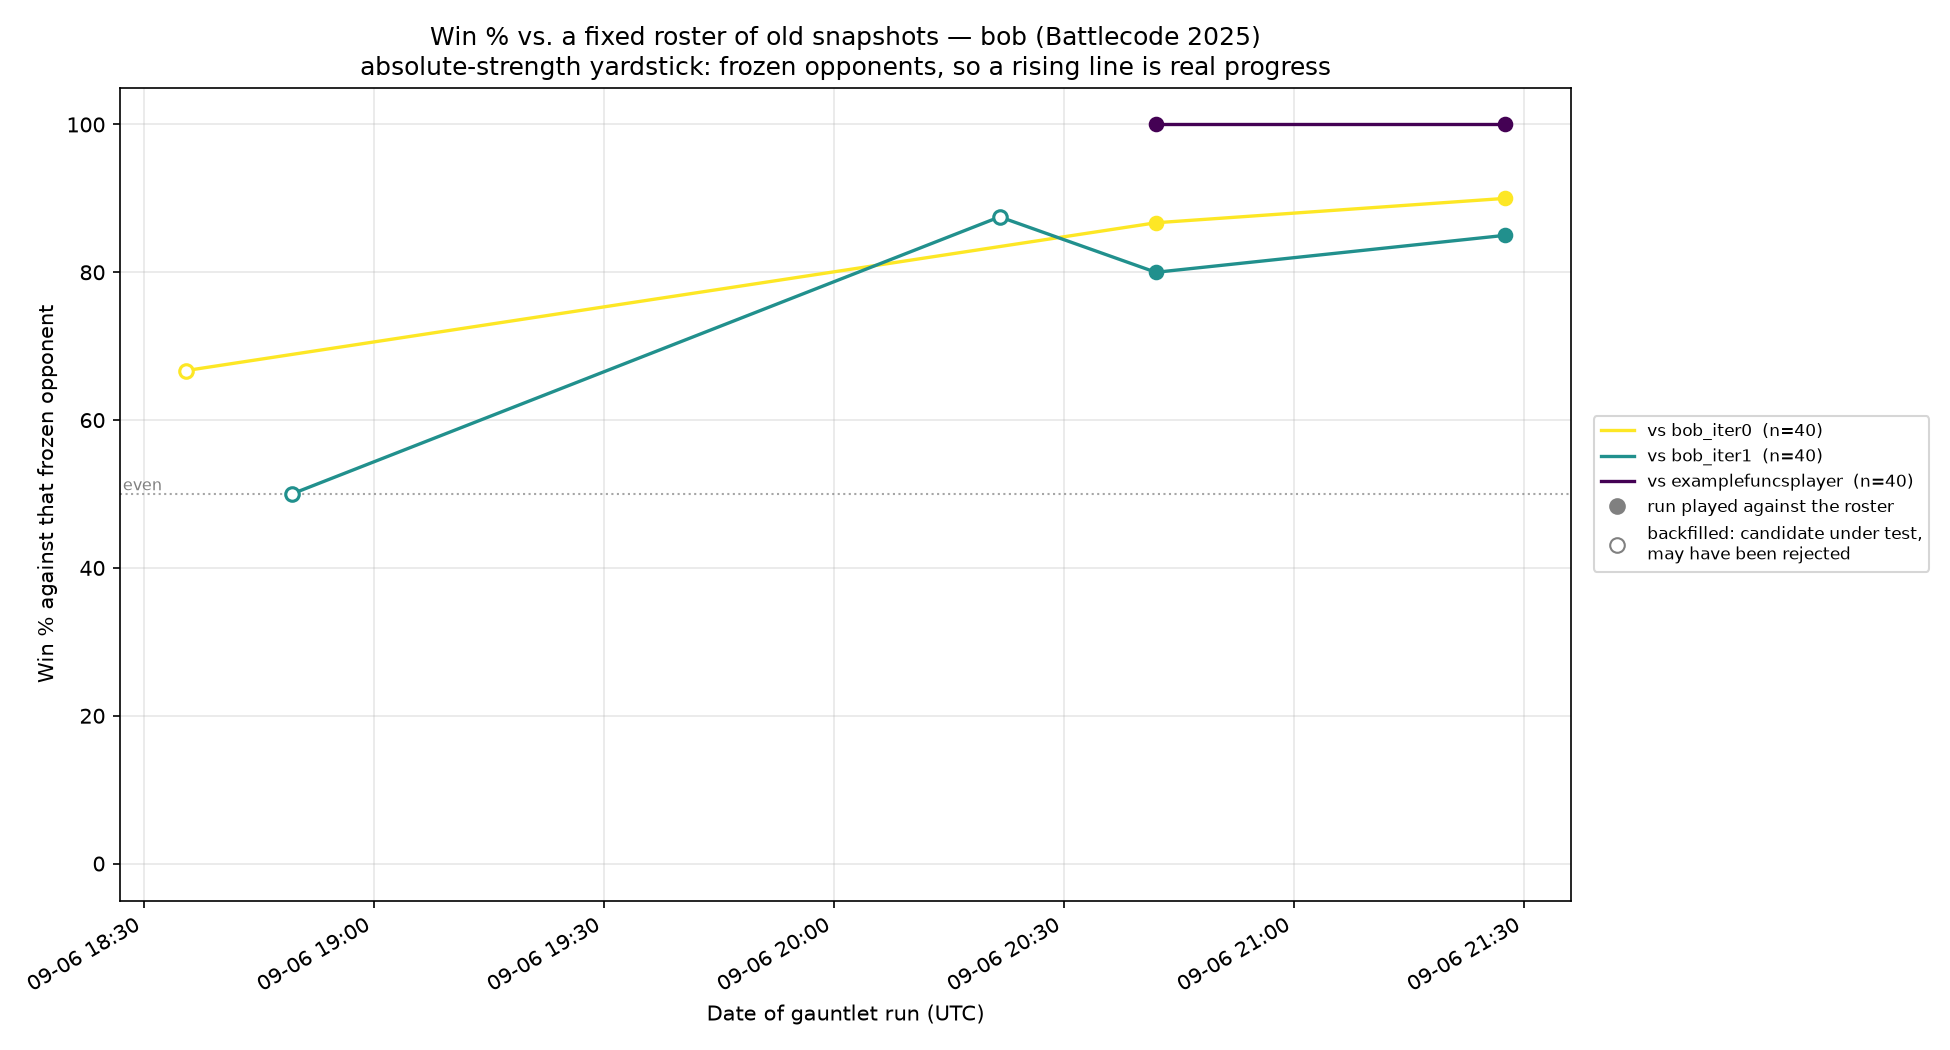
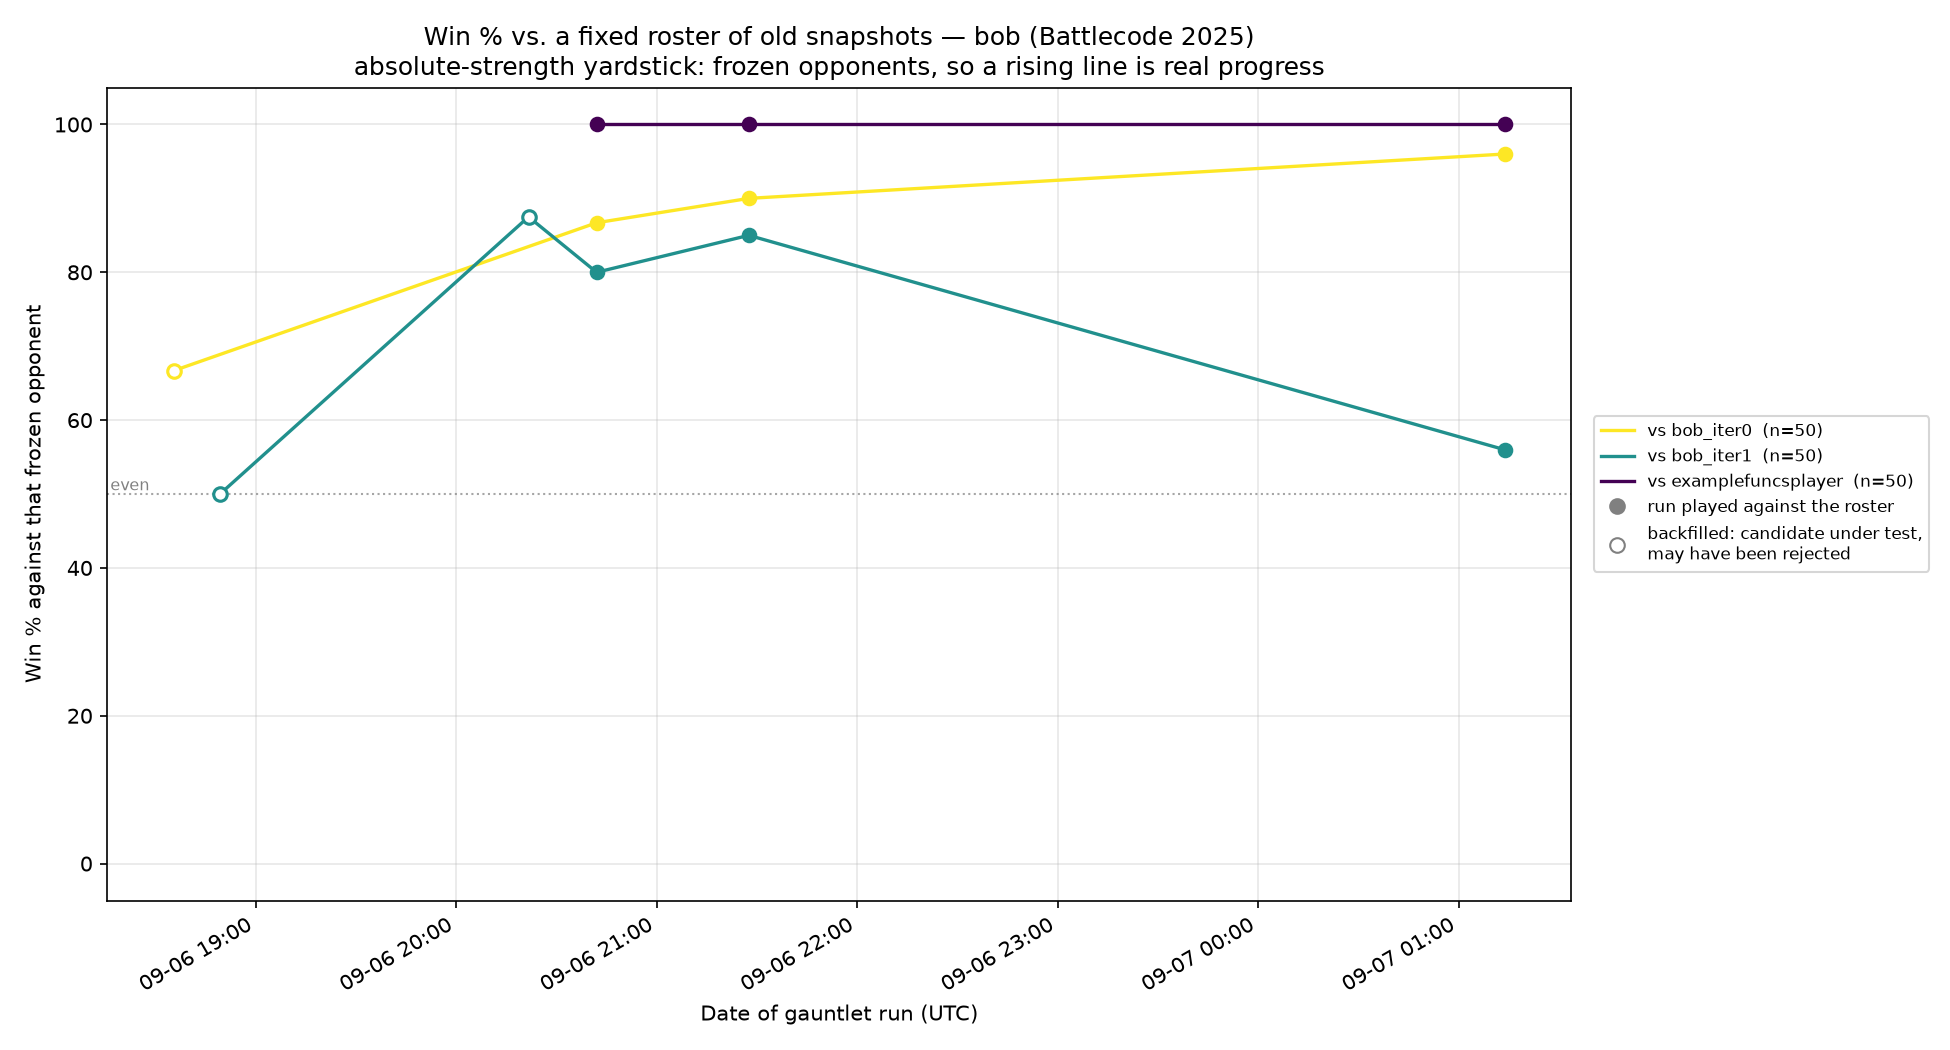
bob: fixed roster says win% vs frozen bob_iter1 fell 85% -> 56%
Roster run at iteration 9 (label bob_iter9, not +cand): 96% vs iter0, 100%
vs examplefuncsplayer, and 56% vs bob_iter1 -- down 29 points from the 85%
measured at iteration 3. Swept maps, which are immune to spawn advantage,
agree: 9-6 with 10 split by side, against 23-0 vs iter0.

This is what the never-retired roster exists to catch. Every accept in this
lineage beat its immediate predecessor and the lineage still went backwards
against an older frozen bot -- a chain of locally-winning steps is not a
globally improving path.

Not yet treated as proven: map samples are redrawn per run and AGENT.md warns
cross-run deltas are noisy. The decisive pinned experiment is queued -- replay
bob_iter3 vs bob_iter1 on THIS run maps.txt, since iter9 half is already
measured on exactly those maps. Recorded before iteration 11 reports so that
result cannot bend this interpretation.

Claude-Session: https://claude.ai/code/session_01AaaGzxRUmH5UDEVerTki8y

diff --git a/agents/bob/TRAINING_LOG.md b/agents/bob/TRAINING_LOG.md
@@ -2903,3 +2903,67 @@ says the leak is not fatal — but it names the two follow-ons precisely:
 
 Both are recorded now, before the gauntlet reports, so that whichever way iteration 11
 lands the next step is chosen from the trace rather than from the number.
+
+
+---
+
+## Fixed-roster run 20260907-011346 (bob_iter9) — the absolute instrument says something is wrong
+
+Run at the accept of iteration 9, 25 maps x 2 sides x 3 roster opponents = 150 games.
+`bot.txt` label is **`bob_iter9`** with no `+cand` suffix, so this measures the accepted
+snapshot, not a candidate.
+
+```
+                     bob_iter3 (20260906-212734)      bob_iter9 (20260907-011346)
+vs bob_iter0            36/40   90.0%                    48/50   96.0%
+vs bob_iter1            34/40   85.0%                    28/50   56.0%      <-- 
+vs examplefuncsplayer   40/40  100.0%                    50/50  100.0%
+overall                                                 126/150  84.0%
+```
+
+**Win rate against the frozen `bob_iter1` fell from 85.0% to 56.0%** — 29 points — over
+six accepted iterations, while the rate against `bob_iter0` rose and
+`examplefuncsplayer` stayed pinned at 100%. The swept-map view says the same thing more
+sharply, since it is immune to spawn advantage: **9 swept wins against 6 swept losses
+and 10 maps split by side**, where against `bob_iter0` it is 23-0.
+
+This is exactly the failure the fixed roster exists to detect, and it is the reason
+TRAINING_ALGORITHM.md doctrine #9 keeps a never-retired opponent: *every accept in this
+lineage cleared a within-run head-to-head against its immediate predecessor, and the
+lineage still went backwards against an older frozen bot.* A chain of locally-winning
+steps is not a globally improving path. My gauntlet headline (68.8% at iteration 9) is
+measured against a pool that moves; `bob_iter1` does not move.
+
+### Before treating it as established — the one competing explanation
+
+Map samples are redrawn per run (25 of 75), and `AGENT.md` warns explicitly that a raw
+win-rate delta *between* runs is noisier than it looks. The `bob_iter3` figure came off
+a different 25-map draw. So the honest position is that this is a strong signal, not yet
+a proven regression: 29 points at n=40-50 is roughly 6 binomial standard deviations,
+which no plausible sampling story covers on its own, but map draw is not a plain
+binomial.
+
+**The decisive experiment is cheap and pinned, and is the next thing to run after
+iteration 11 resolves**: replay `bob_iter3` and `bob_iter9` against `bob_iter1` on the
+*same* map list —
+
+```
+MAPS="$(cat gauntlet/20260907-011346/maps.txt)" BOT=bob_iter3 OPPONENTS=bob_iter1 ../../tools/gauntlet.sh
+```
+
+`bob_iter9`'s half is already measured on exactly those maps by this run, so one 50-game
+run answers it exactly, with the map variable eliminated by construction rather than
+argued away.
+
+### What it implies either way
+
+If it holds, the lineage has been drifting toward beating its own recent ancestors — the
+self-referential blind spot in TRAINING_ALGORITHM.md's own words — and the response is
+the ablation track: gate iterations 5, 7 and 9's features off one at a time and measure
+each against `bob_iter1` specifically, since that is the opponent that exposes it.
+Notably the tournament agrees that absolute strength is not the problem *versus alice*
+(143-7), which is consistent with a weakness that only an opponent of our own old shape
+can see.
+
+Recorded before iteration 11's gauntlet reports, so the interpretation of that run
+cannot be bent by this one.
